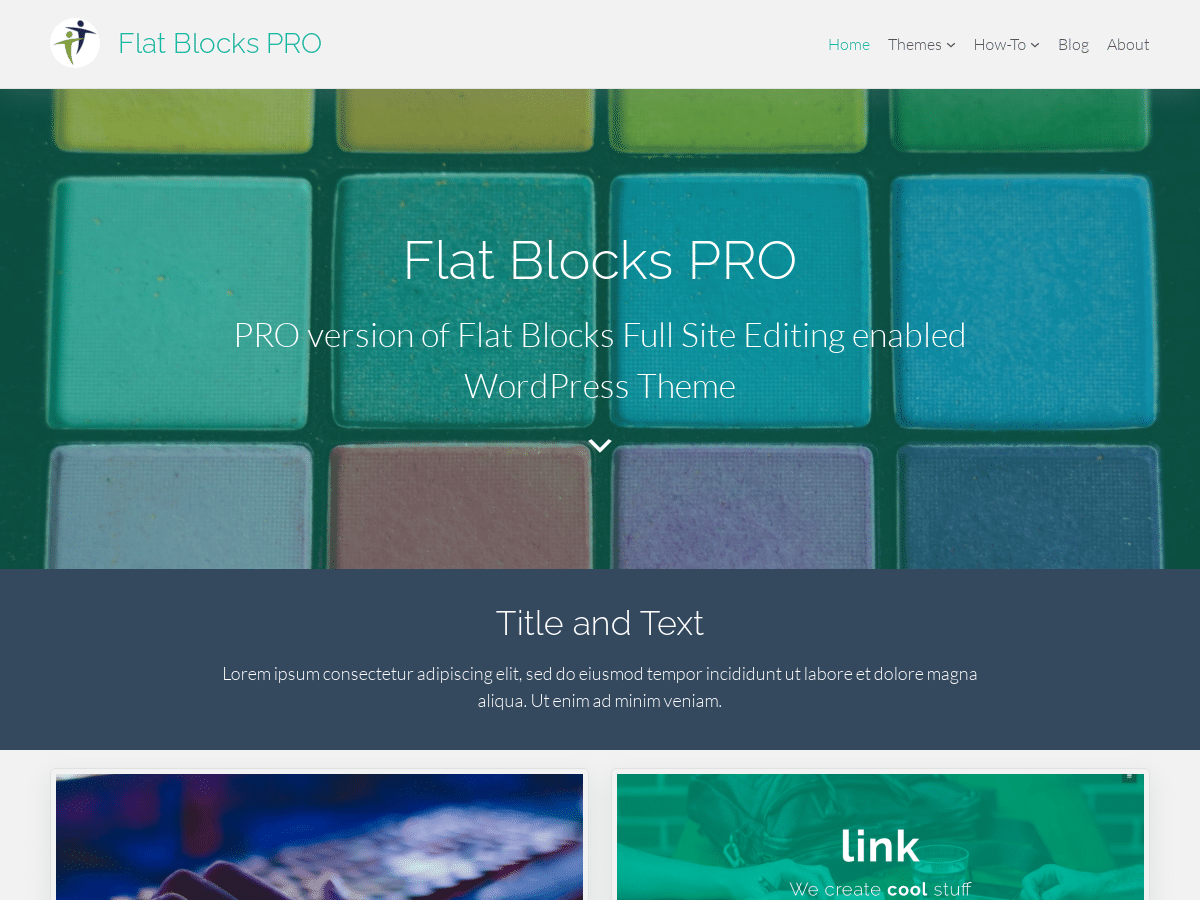
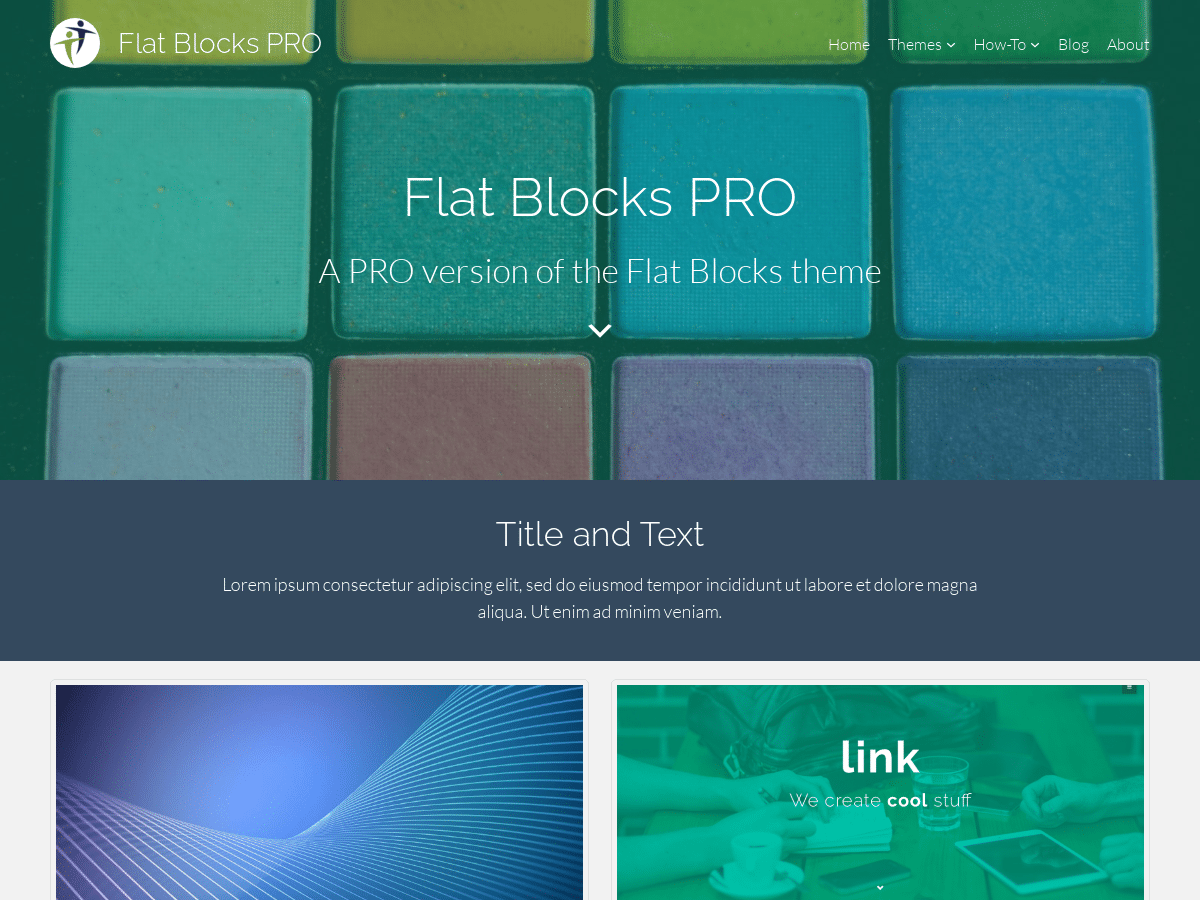
v1.4.7 PRO
* Add package-zip-pro.sh to package up just the needed files, including the pro plugin
* Added a filter 'flatblocks_pro_load_includes' to allow child themes to alter what PHP files (features) get loaded.
* Updated the screenshot to show off the new Scroll to Fixed Header

diff --git a/pro/inc/pro-default-image.php b/pro/inc/pro-default-image.php
@@ -43,3 +43,18 @@ if ( ! function_exists('fbp_filter_post_thumbnail_html') ) :
 	}
 
 endif;
+
+/**
+  * Also make sure that has_post_thumbnail always returns true so the above actually
+  * gets called.
+  */
+add_filter( 'has_post_thumbnail', 'fbp_has_post_thumbnail', 10, 3 );
+if ( ! function_exists('fbp_has_post_thumbnail') ) :
+
+	function fbp_has_post_thumbnail( $has_thumbnail, $post, $thumbnail_id ) {
+	
+		$has_thumbnail = true; 
+		return $has_thumbnail; 
+	}
+
+endif;

diff --git a/pro/flat-blocks-pro.php b/pro/flat-blocks-pro.php
@@ -48,6 +48,8 @@ if ( ! function_exists('fbp_load_includes') ) :
 			$includes[] = '/pro/inc/pro-woocommerce.php';
 		}
 
+		$includes = apply_filters( 'flatblocks_pro_load_includes', $includes );
+
 		/* Load each of the includes */
 		foreach ( $includes as $include ) {
 			if ( file_exists( get_template_directory() . $include ) ) {
